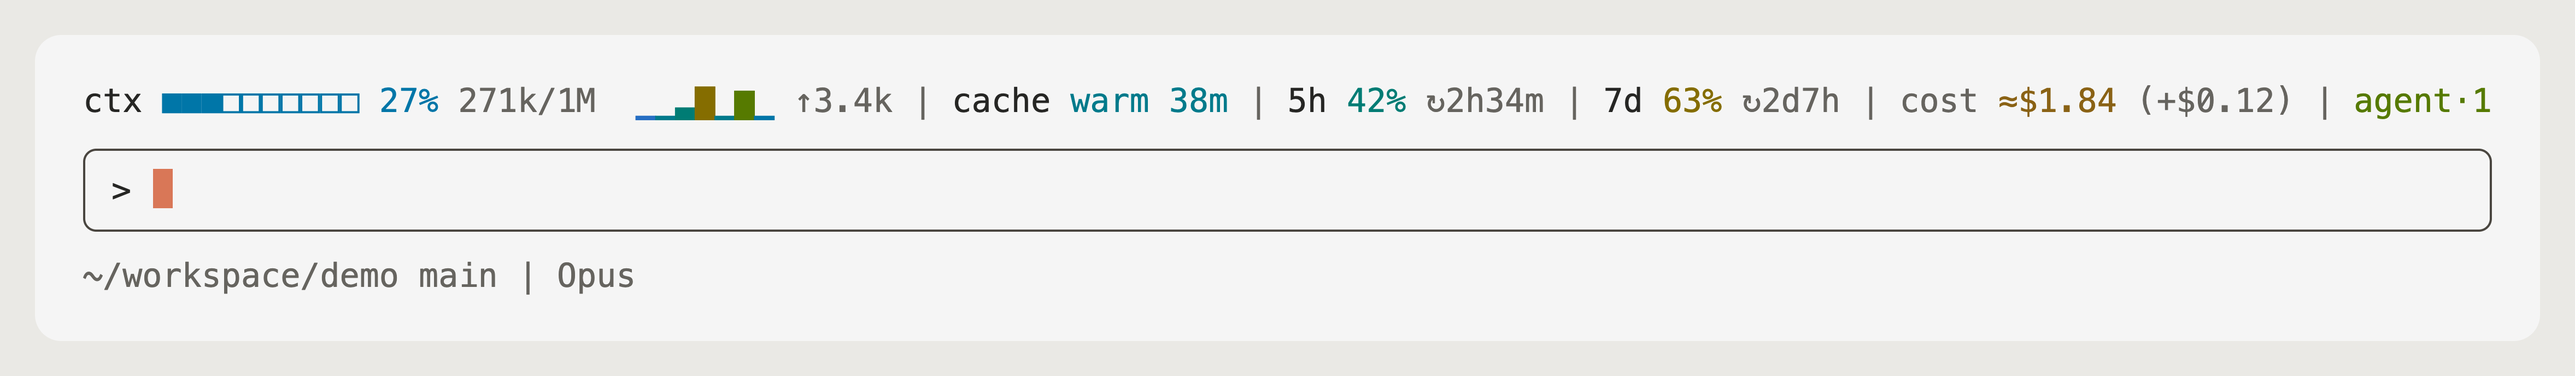
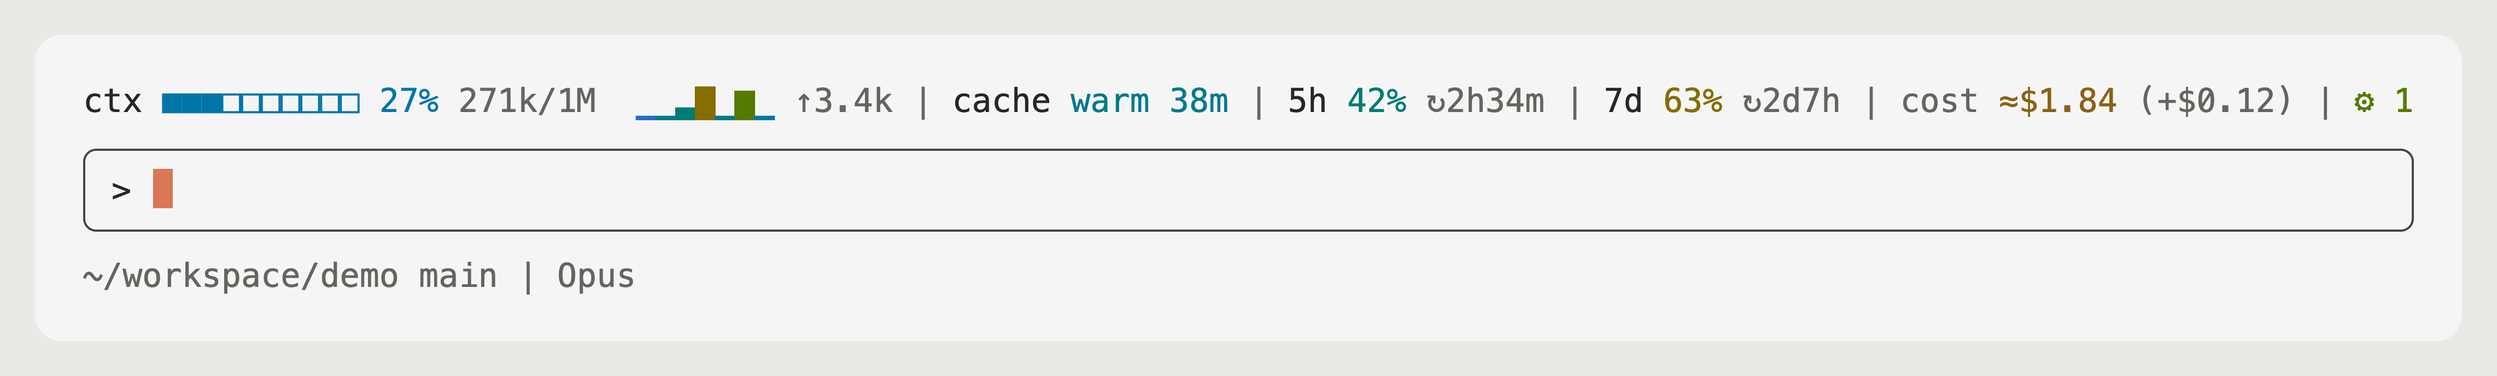
Show running agents with a monochrome gear

Changed region(s): [[0.0311, 0.2137, 0.9639, 0.3358], [0.0311, 0.702, 0.2487, 0.7631], [0.0311, 0.4578, 0.0622, 0.5494]]

diff --git a/plugin/tests/readings.test.ts b/plugin/tests/readings.test.ts
@@ -81,13 +81,13 @@ for (const surface of SURFACES) {
     await $.session.measure({ ...measured(fill(40_000)), cost: { usd: 2 } })
     for await (const _ of $.turn.step(STEP)) { /* drain */ }
     const ui = await $.ui.mount(band(surface))
-    expect((await ui.findAll({ type: 'Text', text: 'agent·1' })).some(n => n.props.color === '#b8e45c')).toBe(true)
+    expect((await ui.findAll({ type: 'Text', text: '⚙ 1' })).some(n => n.props.color === '#b8e45c')).toBe(true)
     expect(await ui.find({ type: 'Text', text: /^ ?TTL unknown$/ })).toBeDefined()
     id = 'fictional-b'
     ledger = usage(undefined, [], true)
     list = []
     await clock.advance(30_000)
-    expect(await ui.find({ type: 'Text', text: /40k|\$|TTL|agent|↑/ })).toBeUndefined()
+    expect(await ui.find({ type: 'Text', text: /40k|\$|TTL|⚙|↑/ })).toBeUndefined()
     expect(await ui.find({ type: 'Text', text: /^ ?~13k\/1M$/ })).toBeDefined()
   })
 }
@@ -132,10 +132,10 @@ test('growth survives cost, agents and countdowns at constrained widths', () => 
     expect(gs.flat().some(s => s.text.includes('↑3.4k'))).toBe(true)
   }
   const narrowText = fit(input, 60).flat().map(s => s.text).join('')
-  expect(narrowText).not.toMatch(/agent|\$/)
+  expect(narrowText).not.toMatch(/⚙|\$/)
   const fullWidth = width(fit(input, 160))
   const withoutAgent = fit(input, fullWidth - 1).flat().map(s => s.text).join('')
-  expect(withoutAgent).not.toContain('agent')
+  expect(withoutAgent).not.toContain('⚙')
   expect(withoutAgent).toContain('+$0.12')
   // A gateway window between weekly quota and cost follows the same right-to-left rule.
   const withSpend = { ...input, limits: [...input.limits, { kind: 'spend_limit', percentUsed: 12, resetsAt: iso(60 * MIN) }] }
@@ -146,9 +146,9 @@ test('growth survives cost, agents and countdowns at constrained widths', () => 
     expect(gs.slice(0, -1)).toEqual(prior.slice(0, gs.length - 1))
     prior = gs
   }
-  const agent = fit(input, 160).flat().find(s => s.text === 'agent·1')!
+  const agent = fit(input, 160).flat().find(s => s.text === '⚙ 1')!
   expect(colorOf(agent, 'light')).toBe('#567a00')
-  expect(fit({ ...input, activeAgents: 0 }, 160).flat().some(s => s.text.includes('agent'))).toBe(false)
+  expect(fit({ ...input, activeAgents: 0 }, 160).flat().some(s => s.text.includes('⚙'))).toBe(false)
 })
 
 for (const surface of ['terminal', 'desktop', 'vscode', 'mobile'] as const) {

diff --git a/plugin/hooks/format.ts b/plugin/hooks/format.ts
@@ -346,7 +346,8 @@ export function groups(b: BandInput): Span[][] {
     { text: 'cost', dimColor: true }, { text: ` ≈${usd(b.cost)}`, money: true },
     ...(validCost(b.turnCost) ? [{ text: ` (+${usd(b.turnCost)})`, dimColor: true, fold: 'turn-cost' as const }] : []),
   ])
-  if ((b.activeAgents ?? 0) > 0) out.push([{ text: `agent·${b.activeAgents}`, tier: 5 }])
+  // Text presentation keeps the gear a theme-colored glyph rather than an emoji.
+  if ((b.activeAgents ?? 0) > 0) out.push([{ text: `⚙ ${b.activeAgents}`, tier: 5 }])
 
   return out
 }
@@ -370,7 +371,7 @@ export function cacheStatus(cache: OverheadCache, ttl: number | null, now: numbe
 export const SEP = ' | '
 
 export function width(gs: Span[][]): number {
-  const cells = gs.reduce((n, g) => n + g.reduce((m, s) => m + [...s.text].length, 0), 0)
+  const cells = gs.reduce((n, g) => n + g.reduce((m, s) => m + [...s.text.replace(/\uFE0E/g, '')].length, 0), 0)
   return cells + SEP.length * Math.max(gs.length - 1, 0)
 }
 

diff --git a/README.zh-CN.md b/README.zh-CN.md
@@ -80,7 +80,7 @@ ctx ■■■□□□□□□□ 27% 271k/1M  ▁▁▃█▁▇▁ ↑3.4k | 
 | `cache` | `warm` 加剩余分钟数，颜色随寿命流逝由冷转暖，或 `cold`；宿主未给出寿命证据时显示 `TTL unknown`；某一轮重新写入缓存而没能读到时，显示 `rewrote` 和写入量 |
 | `5h`、`7d` | 各窗口的额度已用比例，`↻` 是距离重置的时间。暗色表示沿用上一个会话的读数。Claude Code 上报了当前主模型自己的周额度时，`7d` 改显示它，例如 `7d fable`（未验证） |
 | `cost` | 金色会话累计金额和次级文字的最新一轮增量；原生 API 价格参考，缺失隐藏 |
-| `agent·N` | 正在运行的 agent 数量，用黄绿色提示；零个时隐藏 |
+| `⚙ N` | 正在运行的 agent 数量，用黄绿色提示；零个时隐藏 |
 | `spend` | Claude 网关上报的花费额度，可能超过 100%（未验证） |
 
 颜色是同一条从冷到暖的 10 档色阶。百分比（上下文和额度）每 10% 升一档：0–29% 天蓝，90% 及以上深红；每根增长柱按它占窗口的比例落档，从 0.1% 起每翻一倍升一档。完整对照表见 [docs/design.md](docs/design.md#color-scale)。窗口变窄时，横条严格从右往左缩，上下文和每轮增长柱状图比右侧各组保留得更久。

diff --git a/docs/design.md b/docs/design.md
@@ -17,8 +17,10 @@ ctx ■■■□□□□□□□ 27% 271k/1M  ▁▁▃█▁▇▁ ↑3.4k | 
 - Cost stays gold (`#dfbc70` dark, `#8a6215` light). Its increment uses native secondary text. Both
   surfaces use the same spacing and separators as other groups, without a separate background, border
   or padding. No amount changes its color, and no progress bar is added.
-- The running-agent count reads `agent·N` in fixed lime (tier 5: `#b8e45c` dark, `#567a00` light).
-  It has no frame or background and is hidden at zero. Both surfaces use the same plain text.
+- The running-agent count is a small gear followed by the number (`⚙ N`), in fixed lime (tier 5:
+  `#b8e45c` dark, `#567a00` light). Text presentation keeps the symbol monochrome and the variation
+  selector takes no terminal cell. It has no frame or background, is hidden at zero, and is the same
+  on both surfaces. The gear denotes running agents, not a settings button.
 - `warm` and its minutes are one span in one color, the share of the lifetime gone on the percentage
   scale: sky while fresh, up through the tiers to red in the last tenth; `cold` and `TTL unknown` are dim. The minutes already
   say how long, so no gauge repeats them.

diff --git a/README.md b/README.md
@@ -100,7 +100,7 @@ ctx ■■■□□□□□□□ 27% 271k/1M  ▁▁▃█▁▇▁ ↑3.4k | 
 | `cache` | `warm` and its minutes, warming in color as the lifetime drains, or `cold`; `TTL unknown` until the host provides lifetime evidence; `rewrote` and its tokens on a turn that wrote the cache again instead of reading it |
 | `5h`, `7d` | Quota used in each window, and `↻` the time until it resets. Dim when remembered from an earlier session. `7d` follows the main model's own weekly window when Claude Code reports one, such as `7d fable` (not verified) |
 | `cost` | Gold session USD total and secondary latest-turn increment; native API-price reference, hidden when absent |
-| `agent·N` | Currently running agents, highlighted in lime; zero is hidden |
+| `⚙ N` | Currently running agents, highlighted in lime; zero is hidden |
 | `spend` | A Claude gateway's spend limit, when reported; it can pass 100% (not verified) |
 
 Colors follow one ten-step scale from cool to warm. Percentages (context and quota) move one step per 10%

diff --git a/CHANGELOG.md b/CHANGELOG.md
@@ -16,7 +16,7 @@ All notable changes to ccOverhead are documented here. The format follows
 ### Changed
 
 - Narrowing follows the visible band from right to left, keeping the context growth chart until all
-  groups to its right have gone. Running-agent counts read `agent·N` in a fixed theme-aware lime.
+  groups to its right have gone. Running-agent counts read `⚙ N` in a fixed theme-aware lime.
 - The website build takes its version and color scale from the plugin, keeping the public introduction
   aligned with the code it illustrates.
 - The website presents the detail pane, cache rewrites, resume behavior and subagent view alongside the
